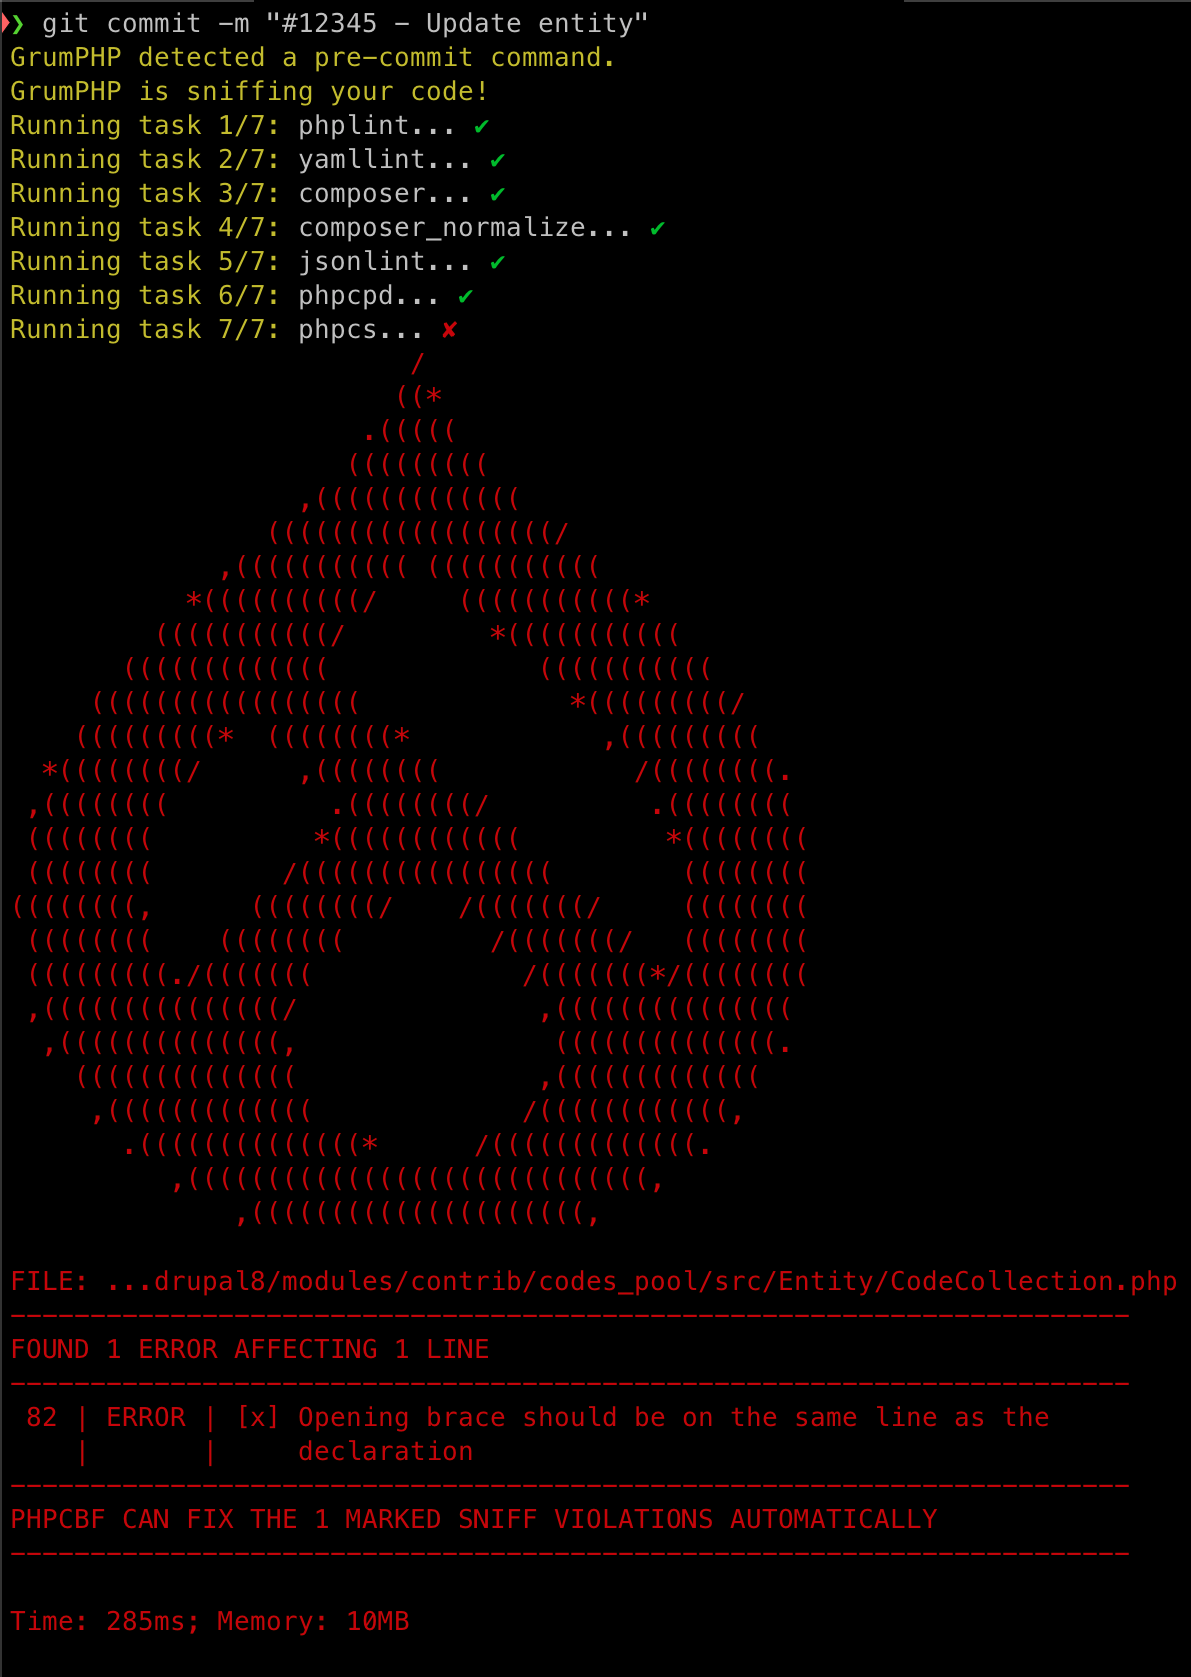
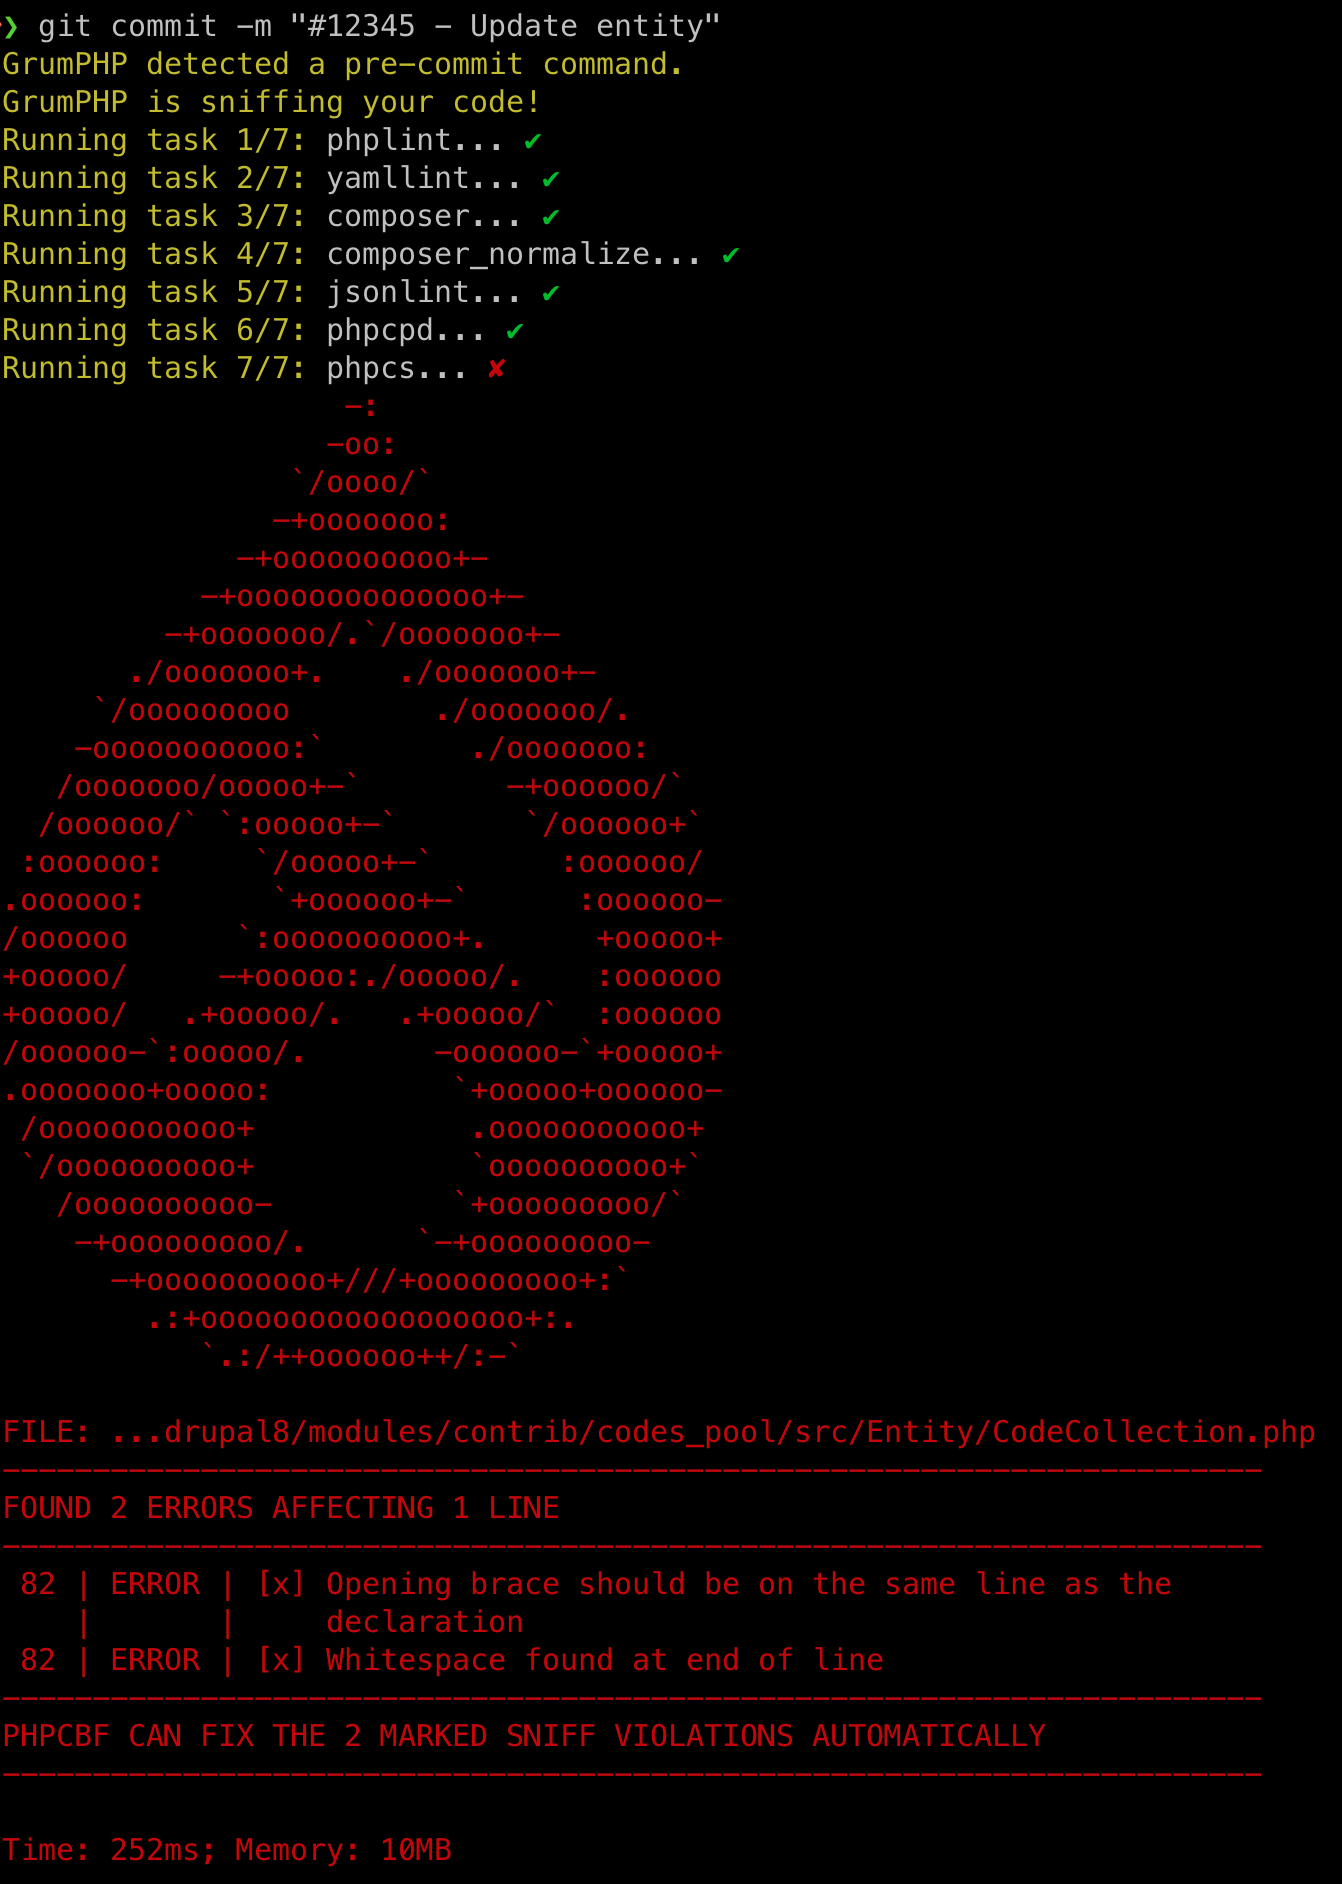
Update ascii to Drupal evergreen

Changed region(s): [[0.0, 0.0, 0.9941, 0.9922]]

diff --git a/README.md b/README.md
@@ -20,12 +20,12 @@ That's it. Now, all tasks (listed below) run on every `git commit`.
 ## Features
 
 1. [PHPCS](https://github.com/squizlabs/PHP_CodeSniffer) with Drupal standard.
-2. [PHPLint](http://www.icosaedro.it/phplint/)
-3. [YAML Lint](http://www.yamllint.com/)
-4. [Composer](https://github.com/composer/composer)
-5. [Composer Normalize](https://github.com/localheinz/composer-normalize)
-6. [JSONLint](https://jsonlint.com/)
-7. [PHP Copy/Paste Detector (CPD)](https://github.com/sebastianbergmann/phpcpd)
+1. [PHP Lint](http://www.icosaedro.it/phplint/)
+1. [YAML Lint](http://www.yamllint.com/)
+1. [Composer](https://github.com/composer/composer)
+1. [Composer Normalize](https://github.com/ergebnis/composer-normalize)
+1. [JSONLint](https://jsonlint.com/)
+1. [PHP Copy/Paste Detector (CPD)](https://github.com/sebastianbergmann/phpcpd)
 
 Long list of additional checks/validators available [here](https://github.com/phpro/grumphp/blob/master/doc/tasks.md#tasks-1).
 
